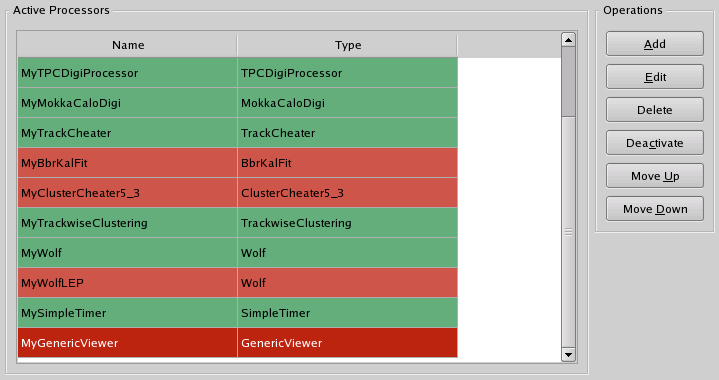
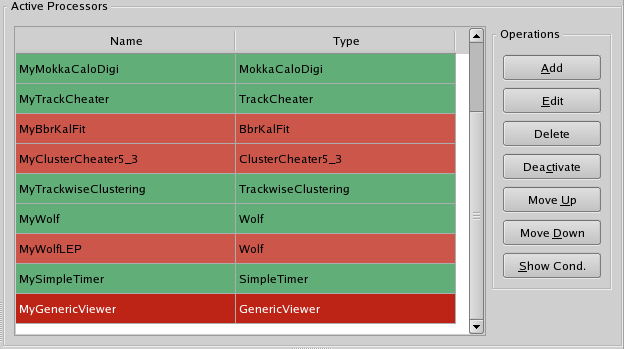
added help section to processor conditions added conditions to the column headers in the conditions grid

diff --git a/gui/help/html/conditions.html b/gui/help/html/conditions.html
@@ -1,0 +1,33 @@
+<!DOCTYPE html PUBLIC "-//W3C//DTD HTML 4.01 Transitional//EN"
+    "http://www.w3.org/TR/html4/loose.dtd">
+<html>
+    <head>
+	<title> Processors Conditions </title>
+    </head>
+    <body>
+	
+	<br><a href="../index.html"> Back to Table of Contents </a><br>
+	<div align=center><h2> Processors Conditions </h2></div>
+	
+
+	<br><br><hr><br><a name="grid"></a><h3> Grid of Conditions </h3><br>
+	<div align=center><img src="../images/procs_condtable.png" border=2></img></div><br>
+
+	<p>As you can see in the image above there is a grid of conditions on the left of the active processors.<br>
+	In this grid you can check or uncheck conditions for each processor. As conditions are added or removed<br>
+	in the <a href="conditions.html#edit">Edit Conditions List</a> section this grid is automatically updated.</p>
+	<p>You should first have the active processors in a consistent state before applying conditions.</p>
+
+	<br><a href="../index.html"> Back to Table of Contents </a><br>
+	
+	<br><br><hr><br><a name="edit"></a><h3> Edit Conditions List </h3><br>
+	<div align=center><img src="../images/procs_condedit.png" border=2></img></div><br>
+
+	<p>Here you can add or remove conditions. As you add or remove conditions new columns are added/removed in
+	the <a href="conditions.html#grid">Grid of Conditions</a> section. The conditions are indexed by numbers<br>
+	in the grid section, but you can resize the column headers to see the condition if you want.</p>
+
+	<br><a href="../index.html"> Back to Table of Contents </a><br>
+    </body>
+</html>
+

diff --git a/gui/help/index.html b/gui/help/index.html
@@ -33,6 +33,11 @@
 			    <li><a href="./html/editprocessor.html#parameters"> Processor Parameters </a></li>
 			    <li><a href="./html/editprocessor.html#optparameters"> Optional Processor Parameters </a></li>
 			</ul>
+			<li><a href="./html/conditions.html"> Show/Hide Conditions </a></li>
+			<ul>
+			    <li><a href="./html/conditions.html#grid"> Grid of Conditions </a></li>
+			    <li><a href="./html/conditions.html#edit"> Edit Conditions List </a></li>
+			</ul>
 		    </ul>
 		<li><a href="./html/processors.html#errors"> Error Description for selected Active Processor </a></li>
 		<li><a href="./html/processors.html#inactive"> Inactive Processors </a></li>

diff --git a/gui/mainwindow.cpp b/gui/mainwindow.cpp
@@ -251,8 +251,9 @@ void MainWindow::setupViews()
     condButtonsLayout->addWidget(addCond);
     condButtonsLayout->addWidget(remCond);
                                                                                                                                                              
-    QWidget *condButtons = new QWidget;
+    QGroupBox *condButtons = new QGroupBox(tr("Operations"));
     condButtons->setLayout( condButtonsLayout );
+    condButtons->setFixedWidth( 120 );
                                                                                                                                                              
     //Layout
     QGridLayout *condLayout = new QGridLayout;
@@ -260,7 +261,7 @@ void MainWindow::setupViews()
     condLayout->addWidget(condButtons,0,1,Qt::AlignTop);
                                                                                                                                                              
     //GroupBox
-    condGBox = new QGroupBox(tr("Conditions List"));
+    condGBox = new QGroupBox(tr("Edit Conditions List"));
     condGBox->setLayout(condLayout);
 
     //hide conditions by default when starting the GUI
@@ -729,9 +730,15 @@ void MainWindow::updateAProcessors( int pos )
 	else{
 	    num=(i+1)+48;
 	}
-	
+	//append condition to the header
+	sSet::const_iterator p=msc->getPConditions().begin();
+	advance(p,i);
+	num+="    ";
+	num+=(*p).c_str();
+
 	labels << num;
 	aProcTable->horizontalHeader()->resizeSection(i, 25);
+	aProcTable->horizontalHeader()->setDefaultAlignment(Qt::AlignLeft);
 	aProcTable->setColumnHidden(i, !showCond->isChecked() );
     }
 
